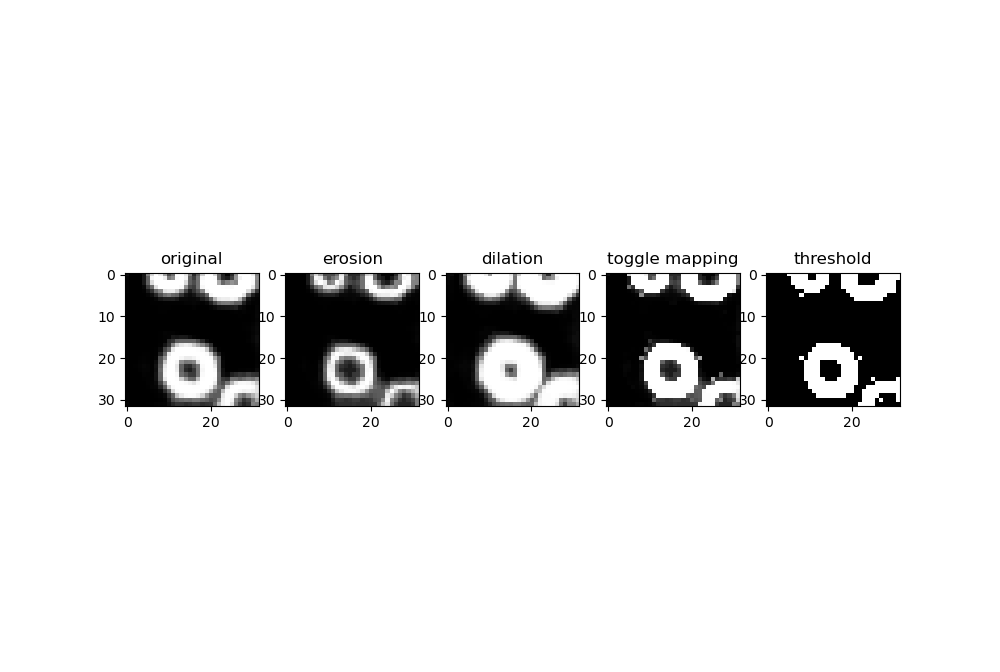
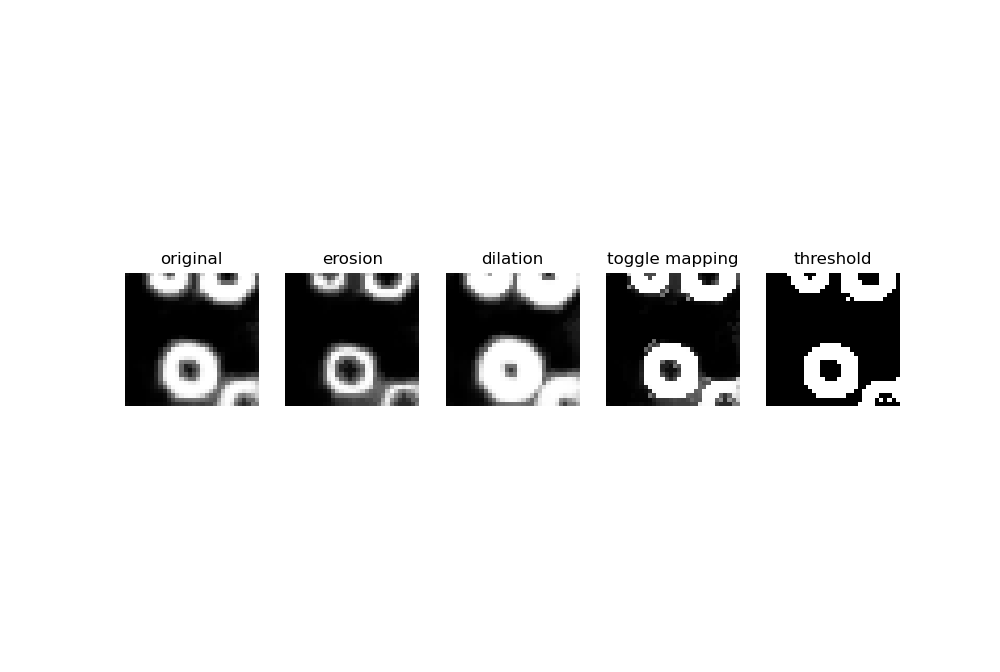
removing axis from toggle mapping

diff --git a/model.py b/model.py
@@ -533,12 +533,15 @@ elif train_type == 'deplace':
 					plt.figure()
 					plt.subplot(1,5,1).title.set_text('original')
 					plt.imshow(img)
+					plt.axis('off')
 					img_erosion = morphology.erosion(np.reshape(img, (32,32)))
 					plt.subplot(1,5,2).title.set_text('erosion')
 					plt.imshow(img_erosion)
+					plt.axis('off')
 					img_dilation = morphology.dilation(np.reshape(img, (32,32)))
 					plt.subplot(1,5,3).title.set_text('dilation')
 					plt.imshow(img_dilation)
+					plt.axis('off')
 					img_diff = img_dilation - img_erosion
 					#plt.subplot(1,5,4)
 					#plt.imshow(img_diff)
@@ -551,6 +554,7 @@ elif train_type == 'deplace':
 
 					plt.subplot(1,5,4).title.set_text('toggle mapping')
 					plt.imshow(img)
+					plt.axis('off')
 					
 					threshold = filters.threshold_otsu(img)
 					# threshold = 0.8
@@ -558,6 +562,7 @@ elif train_type == 'deplace':
 					img[img < threshold] = 0
 					plt.subplot(1,5,5).title.set_text('threshold')
 					plt.imshow(img)
+					plt.axis('off')
 					plt.show()
 								
 				Y_val = model.predict(X_val)
